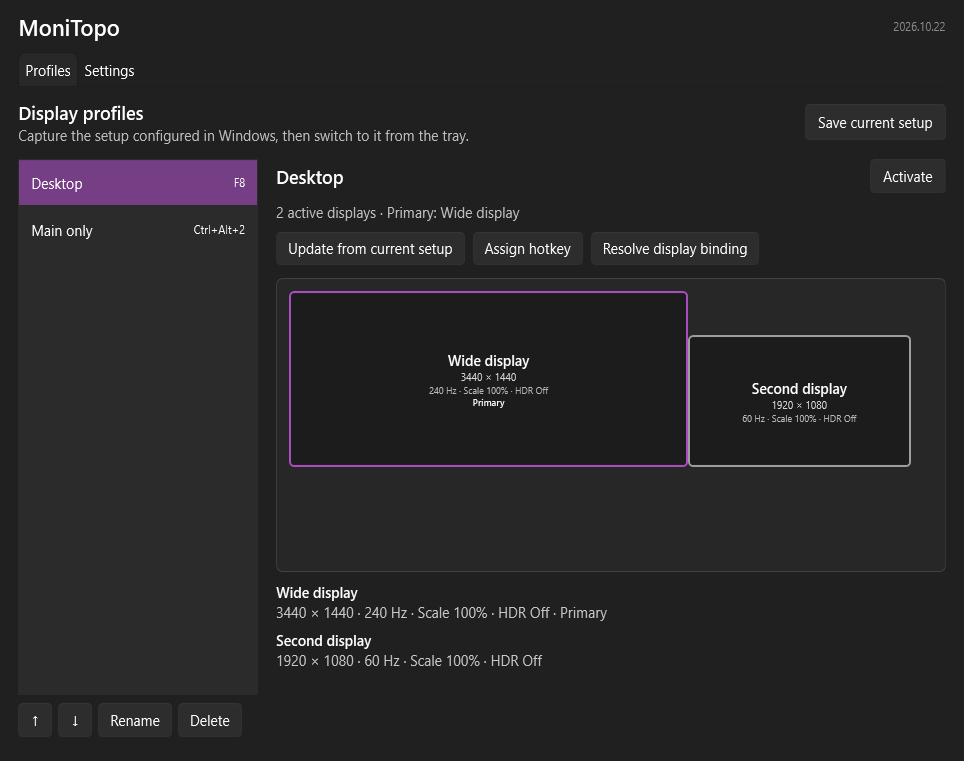
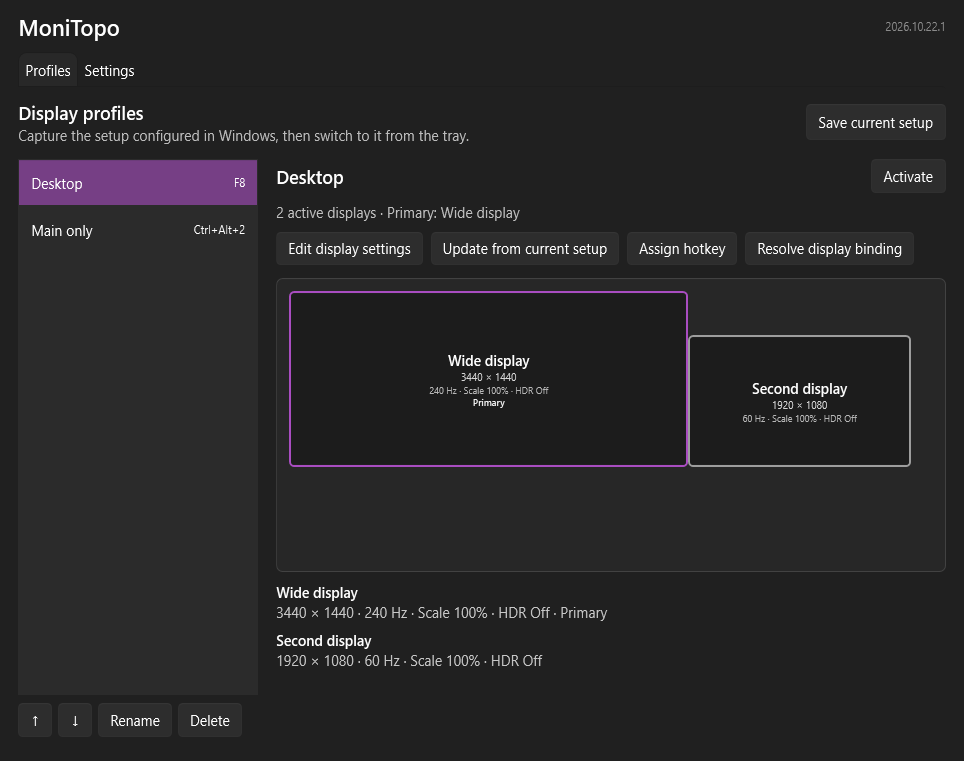
chore(release): prepare 2026.10.22.1 display settings release

diff --git a/README.md b/README.md
@@ -24,9 +24,9 @@ On first run, choose whether MoniTopo should start when you sign in, then captur
 
 The tray popup shows each saved layout, name, and hotkey. It opens beside the primary monitor's notification area, independent of the pointer position. **Settings → Open tray popup** changes its global shortcut (default **Ctrl+Alt+M**). Single-key shortcuts are allowed after confirmation because they intercept that key in other applications. Profile hotkeys also appear in the main profile list.
 
-In the main window, select a profile and choose **Edit display settings** to change resolution, refresh rate, HDR, and Windows scale using available-option dropdowns. Refresh choices follow the selected resolution. **Save profile** only saves; choose **Activate** separately to apply it. Resolution changes keep connected monitor edges together without a layout editor. Disconnected or inactive displays keep their saved values until Windows can report their options. For cloned displays, change the shared mode and scale in Windows and use **Update from current setup**; HDR remains editable per display. This editor is in development and is not included in release 2026.10.22.
+In the main window, select a profile and choose **Edit display settings** to change resolution, refresh rate, HDR, and Windows scale using available-option dropdowns. Refresh choices follow the selected resolution. **Save profile** only saves; choose **Activate** separately to apply it. Resolution changes keep connected monitor edges together without a layout editor. Disconnected or inactive displays keep their saved values until Windows can report their options. For cloned displays, change the shared mode and scale in Windows and use **Update from current setup**; HDR remains editable per display.
 
-On this development branch, activation changes only the categories that differ. Already-matching profiles do not write display settings; scale/HDR-only changes leave the CCD layout untouched. Layout/mode changes still use Windows' complete-configuration API, with full verification and recovery for every mutation. This change-aware activation is not included in release 2026.10.22.
+Activation changes only the categories that differ. Already-matching profiles do not write display settings; scale/HDR-only changes leave the CCD layout untouched unless Windows changes its modes during the transition. Layout/mode changes use Windows' complete-configuration API. Bounded reconciliation repairs transition side effects, including HDR restoring an earlier mode or a Windows save resetting DPI, with full verification and recovery for every mutation.
 
 Choose **System**, **Light**, or **Dark** under **Settings → General → Theme**. The choice applies immediately to MoniTopo and is remembered; it does not change the Windows theme.
 
@@ -36,7 +36,7 @@ Installed builds check stable releases at most once per day when enabled. Choose
 
 Current limitations include the runtime-probed Windows scale contract, ambiguous identical monitors requiring manual binding, unsigned packages, and differences between GPU drivers, docks, and mixed-DPI setups. Follow the [manual display checklist](docs/manual-display-test.md) on the intended hardware. Profiles captured before capture schema 3 must be recaptured because older builds saved incorrect HDR-toggle state.
 
-Version labels use `YYYY.MM.DD` (first release: `2026.10.22`). Windows Installed Apps and update packages retain the ordered package version `2026.1022.0`; this is the same release, not a separate update channel.
+Version labels use `YYYY.MM.DD` with a revision suffix for later releases on the same day. Release `2026.10.22.1` uses ordered package version `2026.1022.1` in Windows Installed Apps and update metadata; these identify the same release. It updates normally from the first release, `2026.1022.0`.
 
 ## Development
 

diff --git a/docs/development.md b/docs/development.md
@@ -28,9 +28,11 @@ Profiles captured by builds before capture schema 3 must be updated from the cur
 
 The solution separates portable domain code (`MoniTopo.Core`), Windows integration (`MoniTopo.Windows`), WPF UI (`MoniTopo.App`), and the recovery companion (`MoniTopo.Recovery`). Test projects contain no real display mutation path.
 
-Activation is change-aware on the development branch. Synthetic tests verify that identical profiles need no setters or recovery process; scale/HDR-only changes never validate/apply/persist CCD topology; mode changes recheck affected properties; and unchanged per-source/target values are skipped at the native boundary. Tests also cover cloned-source scale deduplication, slow observations without repeated setters, drift before the first write, and rollback after property-only failures. A core topology/mode change still supplies a complete CCD configuration because Windows has no independent per-monitor topology transaction. Follow the change-aware section in the manual checklist to qualify pointer behavior on hardware; no cursor-position restoration is implemented.
+Activation is change-aware. Synthetic tests verify that identical profiles need no setters or recovery process; scale/HDR-only changes do not touch CCD unless Windows changes core modes during the transition; mode changes recheck affected properties; and unchanged per-source/target values are skipped at the native boundary. Bounded reconciliation also covers HDR restoring an earlier mode, persistence resetting properties, and exact rollback through those side effects. Tests cover cloned-source scale deduplication, slow observations without repeated setters, drift before the first write, and rollback after property-only failures. A core topology/mode change still supplies a complete CCD configuration because Windows has no independent per-monitor topology transaction. Follow the change-aware section in the manual checklist to qualify pointer behavior on hardware; no cursor-position restoration is implemented.
 
 The Windows tests construct CCD path/mode arrays, rollback files, EDID bytes, HDR flags, and DPI packets in memory. They do not instantiate the default production backend or query monitor state. Run the synthetic suites directly with `dotnet test tests/MoniTopo.Windows.Tests` and `dotnet test tests/MoniTopo.Core.Tests`; sanitized fixture files are under `tests/Fixtures/Synthetic`. The app may use the production service for user-initiated read-only capture; activation composition must pass the guarded authorization object explicitly.
+
+WPF window/dialog tests share a nonparallel xUnit collection because their short-lived STA dispatchers use process-wide BAML/resource caches. Keep new tests that create WPF views in the collection named by `WpfUiTestCollectionDefinition`; platform-neutral view-model tests may still run in parallel.
 
 WPF startup smoke tests show and lay out the first-run, popup, and main windows on STA threads with fake configuration and update services. These tests catch invalid binding modes without invoking a display writer.
 

diff --git a/CHANGELOG.md b/CHANGELOG.md
@@ -1,6 +1,6 @@
 # Changelog
 
-## Profile settings editor — not yet released
+## 2026.10.22.1 — display settings editor
 
 - Edit saved resolution, refresh rate, HDR, and Windows scale through display-capability dropdowns; saving is separate from activation.
 - Filter refresh rates by resolution, preserve fractional rates, recheck available options before saving, and keep unavailable values intact.
@@ -8,6 +8,8 @@
 - Keep cloned source mode/scale changes capture-based; supported per-target HDR remains editable.
 - Change only the display-setting categories that differ: skip unchanged topology/modes, scale, and HDR, and avoid all display writes for already-active profiles. Recheck properties after transitions and retain complete verification and rollback.
 - Repair mode changes caused by HDR transitions and scale/HDR resets caused by Windows persistence, with bounded revalidation and exact rollback rather than accepting partial settings.
+
+Manually qualified on one two-monitor setup, including combined settings and exact injected-failure rollback. Other drivers, docks, clones, and mixed-DPI UI still require the manual checklist. Packages remain unsigned; real display activation still requires explicit user opt-in.
 
 ## 2026.10.22 — first release
 
